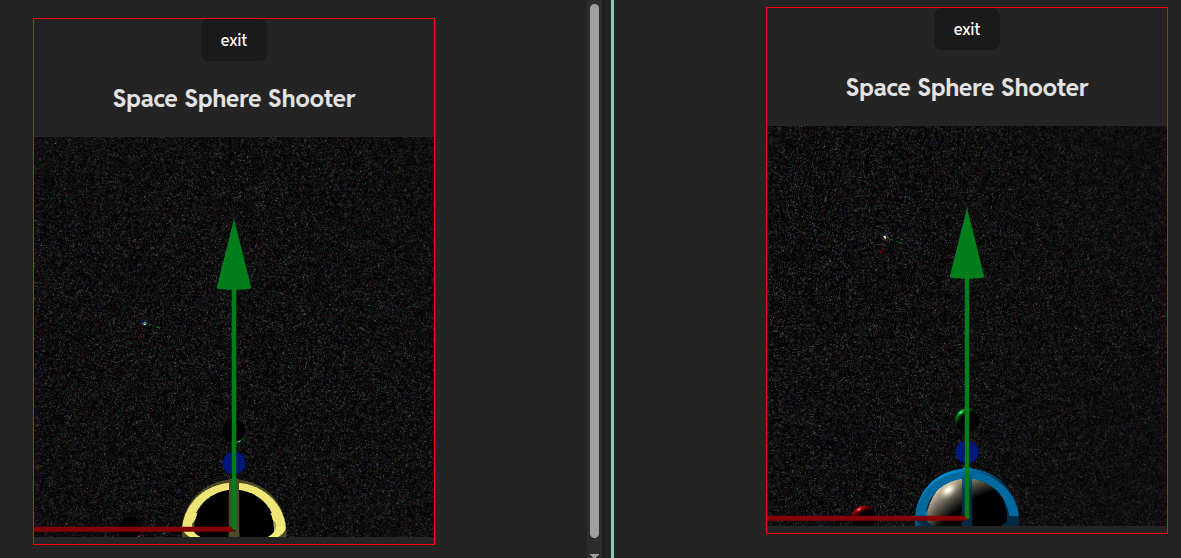
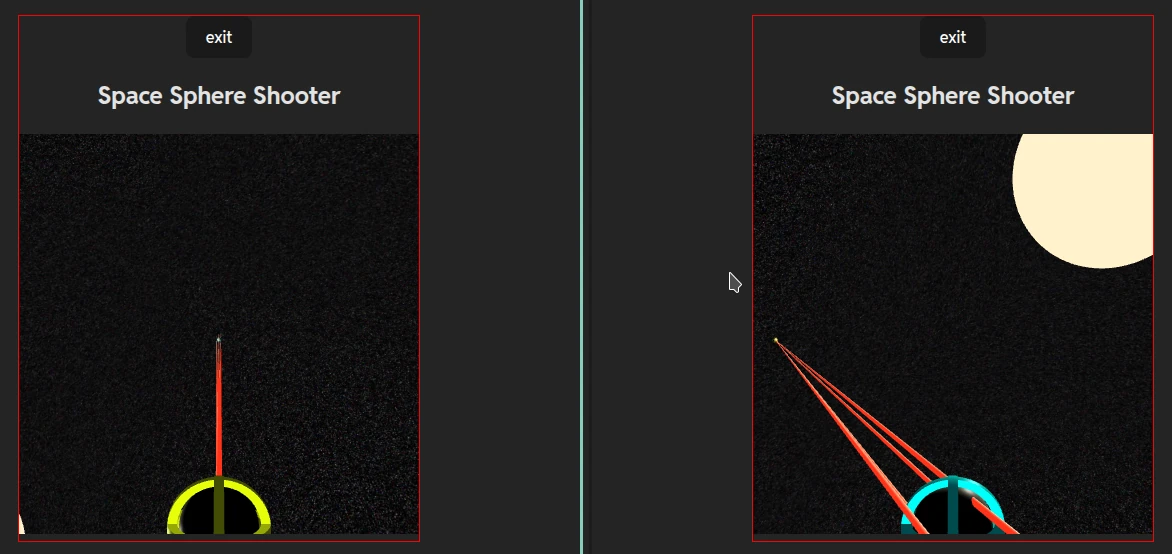
hide visual marker from scene. Update demo.webp.
Tested only locally, not deployed.
No opportunities to deploy properly. Circumstances.

To hide logs set DEVLOG to false.

Next for less or more polishing consider refactor:

server:
- all from applyAngularVelocity to apply_angular_velocity approach. But then rotations can be managed only sequently. Now rotations are managed sequently because of axis drifts presented with parallel approach.
- refactor getters/setters to straight access
- refactor vectors to gl-matrix(with mutation of arrays) or mutation of arrays instead of recreation
- refactor from gemm.vec3Drotate to rodriges formula. it shorter and more efficient with high chance
- collision with 27 boxes(26 around) to reduce potential calculations load

client:
- it is not too nice now, and even no music/sounds
- add some gui when displayed accumulation of the press->hold button
- hp
- some number about destroyed ships
- extra beauty/attractivness of the cosmos

diff --git a/vite/ts/src/views/game/xyz.ts b/vite/ts/src/views/game/xyz.ts
@@ -1,5 +1,5 @@
 export function xyz_dev(scene: BABYLON.Scene){
-  new BABYLON.Debug.AxesViewer(scene, 15)
+  // new BABYLON.Debug.AxesViewer(scene, 15)
 
   const sun = BABYLON.MeshBuilder.CreateSphere("sun", {diameter: 100}, scene);
   const mat = new BABYLON.StandardMaterial("sunPbr", scene);
